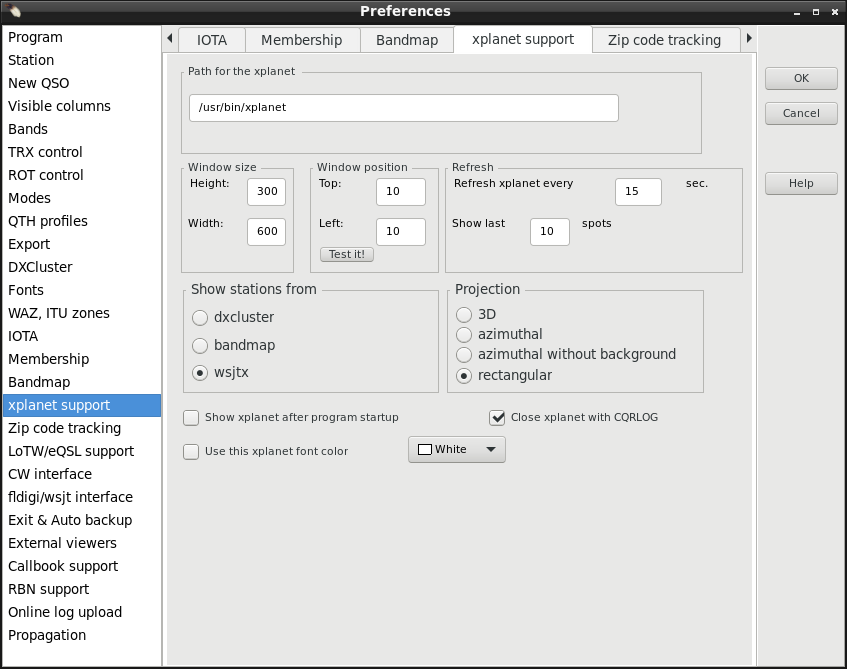
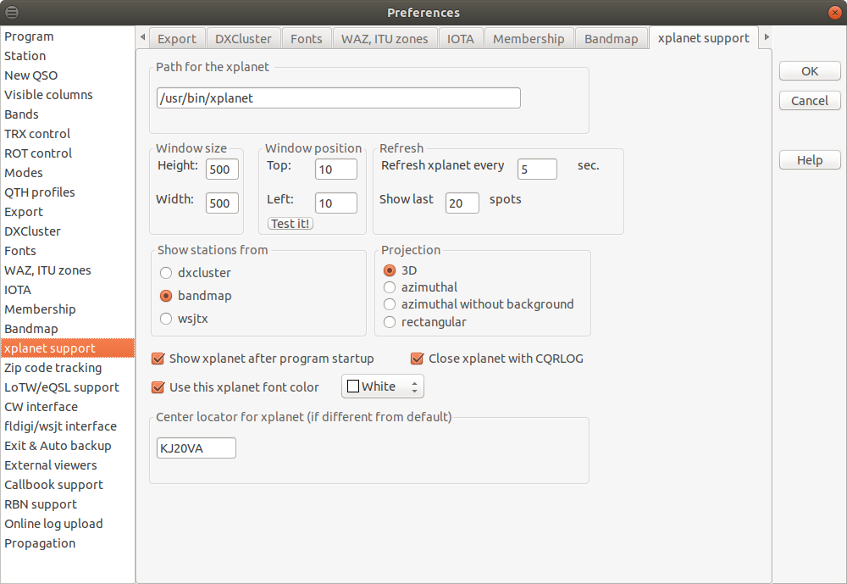
Adapt documentation for the new variable for xplanet

Changed region(s): [[0.0, 0.0, 1.0, 1.0]]

diff --git a/help/h1.html b/help/h1.html
@@ -471,6 +471,8 @@ There are no known dependencies issues.<br><br>
             the main xplanet window as a square.
         </li>
     </ul>
+    The center locator for the xplanet window can be customized by configuring in on 
+    this page. In case the field is empty the default locator of the station is used.<br><br>
     The xplanet window currently has no other function than to display spots or band
     map entries in the azimuthal projection or 3D-like picture.
     <br><br>
